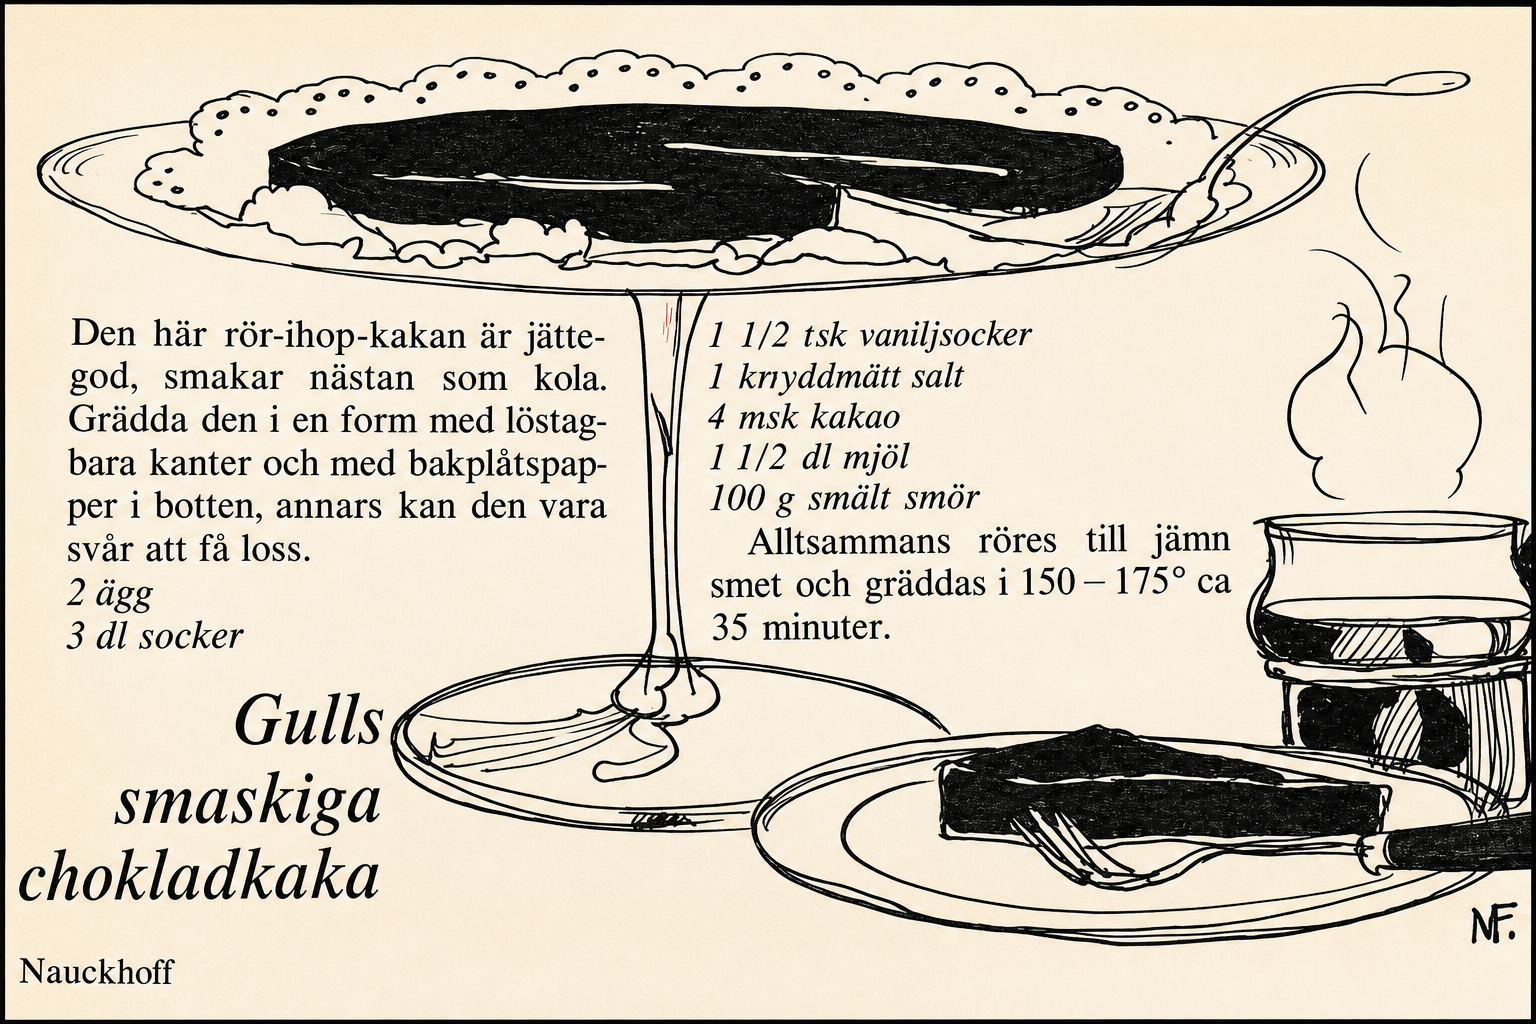
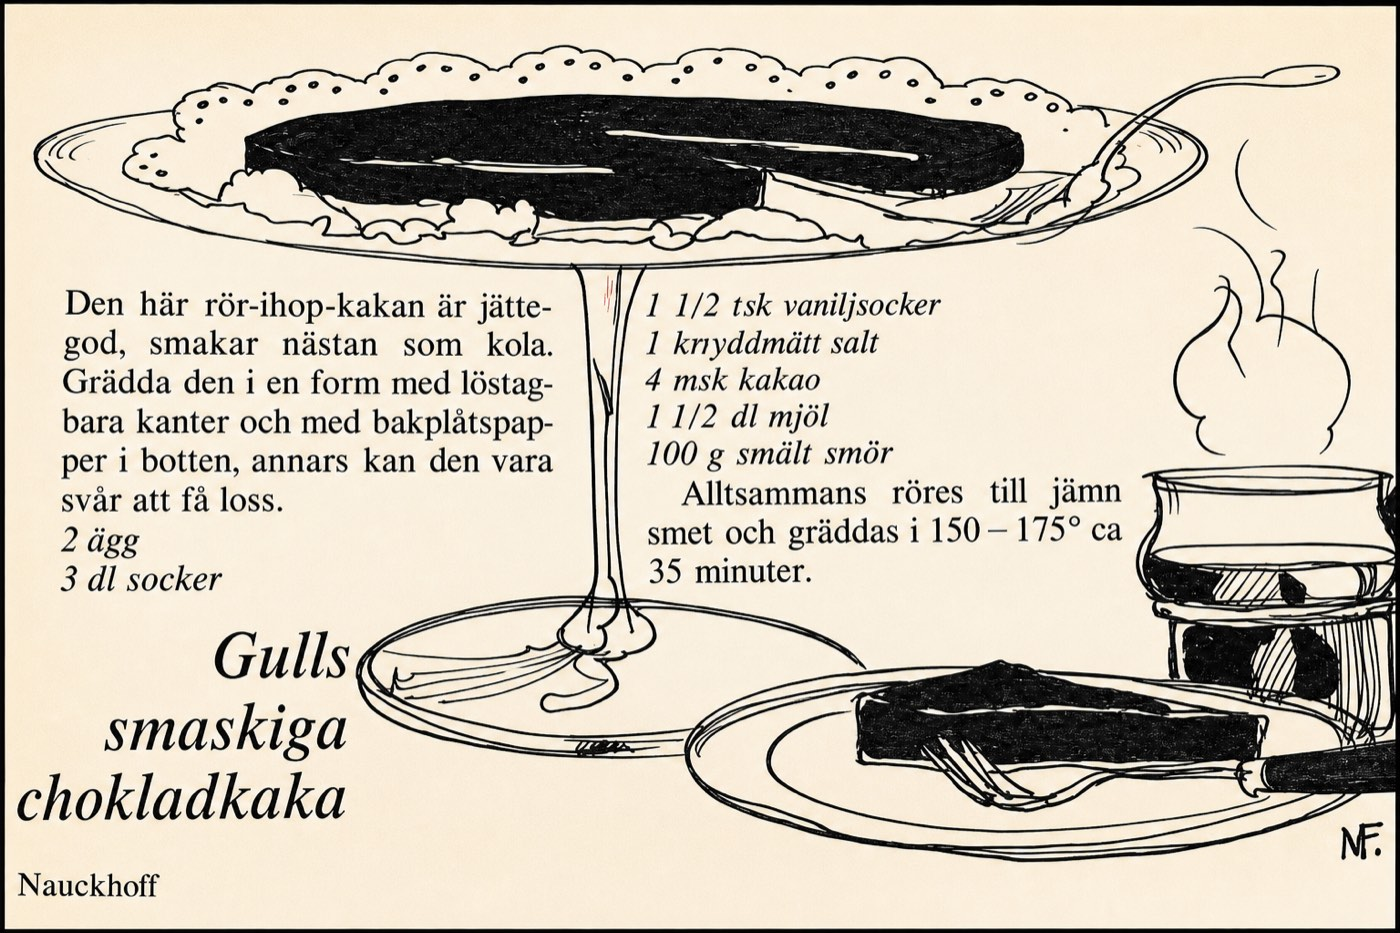
Speed up recipe detail with instant cache paint and smaller images.
Show title, image, and ingredients immediately from list/detail cache while instructions load in the background, and preload Next.js optimized image URLs.

diff --git a/frontend/src/app/recept/[id]/RecipeDetailClient.tsx b/frontend/src/app/recept/[id]/RecipeDetailClient.tsx
@@ -17,6 +17,8 @@ import {
   peekRecipeDetail,
   recipeNeedsMediaFetch,
 } from "@/lib/recipe-detail-cache";
+import { preloadRecipeImageUrl } from "@/lib/recipe-image-preload";
+import { peekRecipeList } from "@/lib/recipe-list-cache";
 import {
   addFavoriteId,
   fetchFavoriteIds,
@@ -31,17 +33,23 @@ function resolveRecipeFromCache(recipeId: string): Recipe | null {
   if (local) {
     return local;
   }
-  return peekRecipeDetail(recipeId) ?? null;
+  const cached = peekRecipeDetail(recipeId);
+  if (cached) {
+    return cached;
+  }
+  return peekRecipeList()?.find((item) => item._id === recipeId) ?? null;
 }
 
 const RecipeDetailClient = () => {
   const params = useParams<{ id: string }>();
   const id = typeof params?.id === "string" ? params.id : "";
-  const [recipe, setRecipe] = useState<Recipe | null>(() =>
-    id ? resolveRecipeFromCache(id) : null
-  );
+  const initialRecipe = id ? resolveRecipeFromCache(id) : null;
+  const [recipe, setRecipe] = useState<Recipe | null>(initialRecipe);
   const [checkedSteps, setCheckedSteps] = useState<Record<number, boolean>>({});
-  const [isLoading, setIsLoading] = useState(() => Boolean(id) && !resolveRecipeFromCache(id));
+  const [isBootstrapping, setIsBootstrapping] = useState(
+    () => Boolean(id) && !initialRecipe
+  );
+  const [isLoadingInstructions, setIsLoadingInstructions] = useState(false);
   const [error, setError] = useState("");
   const [favoriteHint, setFavoriteHint] = useState("");
   const isLoggedIn = useLoggedIn();
@@ -99,7 +107,8 @@ const RecipeDetailClient = () => {
       setRecipe(next);
       setEditMode(false);
       setCheckedSteps({});
-      setIsLoading(false);
+      setIsBootstrapping(false);
+      preloadRecipeImageUrl(recipeImage(next), { width: 1200, quality: 75 });
       if (recipeNeedsMediaFetch(next)) void loadMedia();
 
       if (
@@ -107,11 +116,18 @@ const RecipeDetailClient = () => {
         next.instructions.length === 0 &&
         !next.localOnly
       ) {
+        setIsLoadingInstructions(true);
         void fetchRecipeBasic(id).then((full) => {
-          if (ac.signal.aborted || !full) return;
+          if (ac.signal.aborted || !full) {
+            if (!ac.signal.aborted) setIsLoadingInstructions(false);
+            return;
+          }
           setRecipe(full);
+          setIsLoadingInstructions(false);
           if (recipeNeedsMediaFetch(full)) void loadMedia();
         });
+      } else {
+        setIsLoadingInstructions(false);
       }
     };
 
@@ -122,7 +138,7 @@ const RecipeDetailClient = () => {
         return;
       }
 
-      setIsLoading(true);
+      setIsBootstrapping(true);
       setError("");
       setRecipe(null);
 
@@ -134,7 +150,7 @@ const RecipeDetailClient = () => {
       } catch (e) {
         if (e instanceof DOMException && e.name === "AbortError") return;
         setError("Receptet kunde inte hittas.");
-        setIsLoading(false);
+        setIsBootstrapping(false);
       }
     };
 
@@ -219,7 +235,7 @@ const RecipeDetailClient = () => {
     })();
   };
 
-  if (!id || isLoading) {
+  if (!id || isBootstrapping) {
     return <RecipeDetailSkeleton />;
   }
 
@@ -471,7 +487,18 @@ const RecipeDetailClient = () => {
           <div className="rounded-lg border border-stone-200 bg-white p-6 shadow-sm">
             <h2 className="text-2xl font-bold text-stone-950">Gör så här</h2>
             <div className="mt-5 grid gap-4">
-              {recipe.instructions.length > 0 ? (
+              {isLoadingInstructions ? (
+                <>
+                  {[1, 2, 3].map((step) => (
+                    <div
+                      key={step}
+                      className="h-20 animate-pulse rounded-md border border-stone-200 bg-stone-100"
+                      aria-hidden
+                    />
+                  ))}
+                  <p className="text-sm text-stone-500">Hämtar instruktioner…</p>
+                </>
+              ) : recipe.instructions.length > 0 ? (
                 recipe.instructions.map((instruction, index) => (
                   <label
                     key={`${instruction}-${index}`}

diff --git a/frontend/src/lib/recipe-prefetch.ts b/frontend/src/lib/recipe-prefetch.ts
@@ -1,31 +1,10 @@
 import { stashRecipeDetail } from "@/lib/recipe-detail-cache";
+import { preloadRecipeImageUrl } from "@/lib/recipe-image-preload";
 import { recipeImage, type Recipe } from "@/lib/recipes";
-
-const preloadedImages = new Set<string>();
-const hoverTimers = new Map<string, ReturnType<typeof setTimeout>>();
 
 export type PrefetchableRouter = {
   prefetch: (href: string) => void;
 };
-
-export function preloadRecipeImageUrl(url: string) {
-  if (typeof window === "undefined" || !url) {
-    return;
-  }
-  if (url.startsWith("data:") || url.startsWith("blob:")) {
-    return;
-  }
-  if (preloadedImages.has(url)) {
-    return;
-  }
-  preloadedImages.add(url);
-
-  const link = document.createElement("link");
-  link.rel = "preload";
-  link.as = "image";
-  link.href = url;
-  document.head.appendChild(link);
-}
 
 function runPrefetch(
   router: PrefetchableRouter | null | undefined,
@@ -33,8 +12,10 @@ function runPrefetch(
 ) {
   stashRecipeDetail(recipe);
   router?.prefetch(`/recept/${recipe._id}`);
-  preloadRecipeImageUrl(recipeImage(recipe));
+  preloadRecipeImageUrl(recipeImage(recipe), { width: 1200, quality: 75 });
 }
+
+const hoverTimers = new Map<string, ReturnType<typeof setTimeout>>();
 
 /** Väntar kort vid hover — undvik API-storm när musen glider över rutnätet. */
 export function prefetchRecipeDetailOnHover(

diff --git a/frontend/src/lib/recipe-image-preload.ts b/frontend/src/lib/recipe-image-preload.ts
@@ -1,0 +1,55 @@
+const preloaded = new Set<string>();
+
+type PreloadOptions = {
+  width?: number;
+  quality?: number;
+};
+
+/** URL som Next.js Image faktiskt hämtar (/_next/image?...). */
+export function buildNextImageRequestUrl(
+  src: string,
+  options: PreloadOptions = {}
+): string | null {
+  if (typeof window === "undefined" || !src) {
+    return null;
+  }
+  if (src.startsWith("data:") || src.startsWith("blob:")) {
+    return null;
+  }
+
+  const width = options.width ?? 800;
+  const quality = options.quality ?? 75;
+  const absolute =
+    src.startsWith("http://") || src.startsWith("https://")
+      ? src
+      : `${window.location.origin}${src.startsWith("/") ? src : `/${src}`}`;
+
+  const params = new URLSearchParams({
+    url: absolute,
+    w: String(width),
+    q: String(quality),
+  });
+
+  return `/_next/image?${params.toString()}`;
+}
+
+export function preloadRecipeImageUrl(
+  src: string,
+  options: PreloadOptions = {}
+): void {
+  if (typeof window === "undefined" || !src) {
+    return;
+  }
+
+  const href = buildNextImageRequestUrl(src, options);
+  if (!href || preloaded.has(href)) {
+    return;
+  }
+
+  preloaded.add(href);
+  const link = document.createElement("link");
+  link.rel = "preload";
+  link.as = "image";
+  link.href = href;
+  document.head.appendChild(link);
+}

diff --git a/frontend/public/sw.js b/frontend/public/sw.js
@@ -1,4 +1,4 @@
-const CACHE_NAME = "receptbok-fa3914f";
+const CACHE_NAME = "receptbok-9e37270";
 const APP_SHELL = [
   "/manifest.webmanifest",
   "/images/heroImageLandingPage.jpg",
